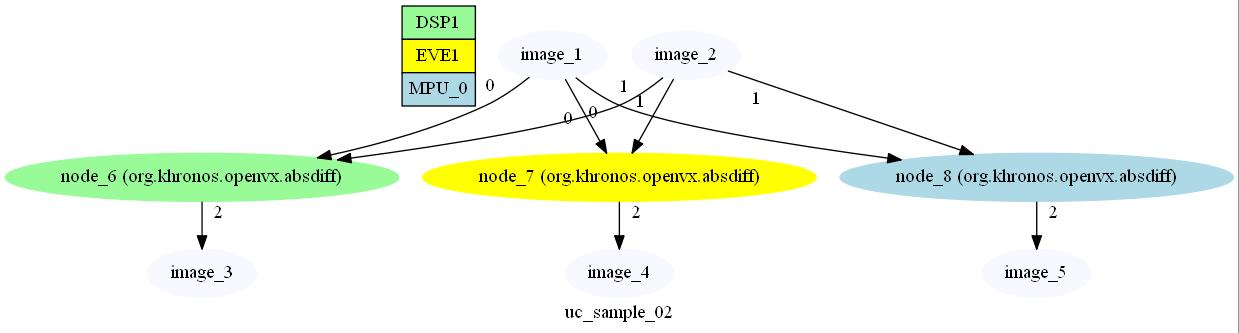
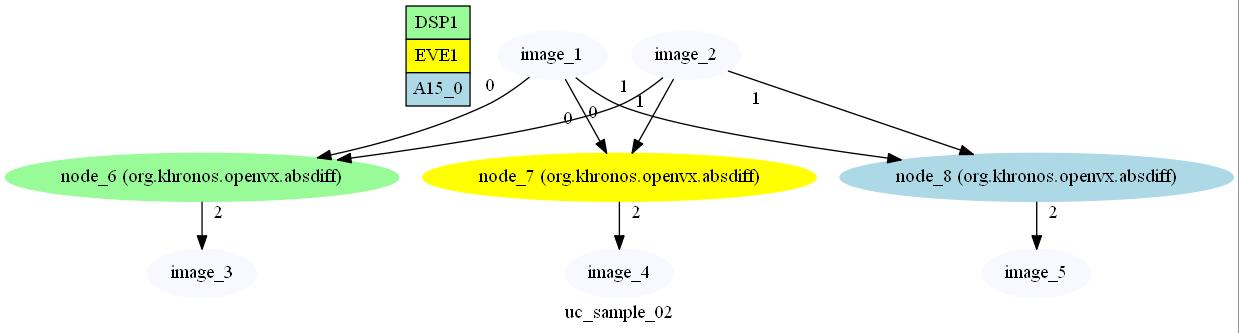
Fixes in PyTIOVX

Changed region(s): [[0.3067, 0.03, 0.3987, 0.3303]]

diff --git a/tools/PyTIOVX/tiovx/enums.py b/tools/PyTIOVX/tiovx/enums.py
@@ -260,12 +260,10 @@ class Cpu(Enum) :
     EVE2    = 5
     EVE3    = 6
     EVE4    = 7
-    MPU_0   = 8
-    MPU_1   = 9
-    IPU1_0  = 10
-    IPU1_1  = 11
-    IPU2_0  = 12
-    IPU2_1  = 13
+    A15_0   = 8
+    IPU1_0  = 9
+    IPU1_1  = 10
+    IPU2    = 11
 
     def get_vx_enum_name(type) :
         return "TIVX_CPU_ID_" + type.name
@@ -298,17 +296,13 @@ class Target(Enum) :
     ## TIOVX equivalent = TIVX_TARGET_EVE4
     EVE4    = 7
     ## TIOVX equivalent = TIVX_TARGET_A15_0
-    MPU_0   = 8
-    ## NOT used
-    MPU_1   = 9
+    A15_0   = 8
     ## TIOVX equivalent = TIVX_TARGET_IPU1_0
-    IPU1_0  = 10
+    IPU1_0  = 9
     ## TIOVX equivalent = TIVX_TARGET_IPU1_1
-    IPU1_1  = 11
+    IPU1_1  = 10
     ## TIOVX equivalent = TIVX_TARGET_IPU2
-    IPU2_0  = 12
-    ## Not used
-    IPU2_1  = 13
+    IPU2    = 11
     ## Used internally by the tool
     DEFAULT = DSP1
 
@@ -328,18 +322,14 @@ class Target(Enum) :
             return Cpu.EVE3
         if target == Target.EVE4 :
             return Cpu.EVE4
-        if target == Target.MPU_0 :
-            return Cpu.MPU_0
-        if target == Target.MPU_1 :
-            return Cpu.MPU_1
+        if target == Target.A15_0 :
+            return Cpu.A15_0
         if target == Target.IPU1_0 :
             return Cpu.IPU1_0
         if target == Target.IPU1_1 :
             return Cpu.IPU1_1
-        if target == Target.IPU2_0 :
-            return Cpu.IPU2_0
-        if target == Target.IPU2_1 :
-            return Cpu.IPU2_1
+        if target == Target.IPU2 :
+            return Cpu.IPU2
 
         return Cpu.INVALID
 

diff --git a/tools/sample_use_cases/uc_sample_05.py b/tools/sample_use_cases/uc_sample_05.py
@@ -39,7 +39,7 @@ gaussian_pyr = Pyramid(5, 1, 640, 480, DfImage.U8)
 node_gaussian_pyramid = NodeGaussianPyramid(img_out_acc_w, gaussian_pyr, target=Target.EVE3);
 
 img_out_phase = Image(640, 480, DfImage.U8)
-node_phase = NodePhase(img_out_acc, img_out_conv, img_out_phase, target=Target.MPU_0)
+node_phase = NodePhase(img_out_acc, img_out_conv, img_out_phase, target=Target.A15_0)
 
 remap = Remap(640, 480, 1280, 720);
 img_out_remap = Image(1280, 720, DfImage.U8);
@@ -57,7 +57,7 @@ nonlinear_matrix = Matrix(Type.UINT8, 3, 3)
 node_nonlinear_filter = NodeNonLinearFilter(NonLinearFilter.MIN, img_out_canny, nonlinear_matrix, img_out_nonlinear_filter, target=Target.EVE4)
 
 img_out_combine = Image(1280, 720, DfImage.U8)
-node_combine = NodeChannelCombine(img_out_phase, img_out_remap, img_out_canny, img_out_nonlinear_filter, img_out_combine, target=Target.MPU_1)
+node_combine = NodeChannelCombine(img_out_phase, img_out_remap, img_out_canny, img_out_nonlinear_filter, img_out_combine, target=Target.A15_0)
 
 dist = Distribution(10, 1, 100)
 node_histogram = NodeHistogram(img_out_combine, dist, target=Target.IPU1_0);
@@ -67,7 +67,7 @@ lut = Lut(Type.UINT8, 255)
 node_lut = NodeTableLookup(img_out_remap, lut, img_out_lut, target=Target.IPU1_1);
 
 img_out_and = Image(1280, 720, DfImage.U8);
-node_and = NodeAnd(img_out_lut, img_out_nonlinear_filter, img_out_and, target=Target.IPU2_0)
+node_and = NodeAnd(img_out_lut, img_out_nonlinear_filter, img_out_and, target=Target.IPU2)
 
 graph.add ( node_acc )
 graph.add ( node_acc_w )

diff --git a/tools/sample_use_cases/uc_sample_05.c b/tools/sample_use_cases/uc_sample_05.c
@@ -875,7 +875,7 @@ vx_status uc_sample_05_graph_0_create(uc_sample_05 usecase)
             usecase->image_19 
           );
         vxSetReferenceName( (vx_reference)usecase->node_20, "node_20");
-        vxSetNodeTarget(usecase->node_20, VX_TARGET_STRING, TIVX_TARGET_MPU_0);
+        vxSetNodeTarget(usecase->node_20, VX_TARGET_STRING, TIVX_TARGET_A15_0);
     }
     if (status == VX_SUCCESS)
     {
@@ -925,7 +925,7 @@ vx_status uc_sample_05_graph_0_create(uc_sample_05 usecase)
             usecase->image_37 
           );
         vxSetReferenceName( (vx_reference)usecase->node_38, "node_38");
-        vxSetNodeTarget(usecase->node_38, VX_TARGET_STRING, TIVX_TARGET_MPU_1);
+        vxSetNodeTarget(usecase->node_38, VX_TARGET_STRING, TIVX_TARGET_A15_0);
     }
     if (status == VX_SUCCESS)
     {
@@ -957,7 +957,7 @@ vx_status uc_sample_05_graph_0_create(uc_sample_05 usecase)
             usecase->image_44 
           );
         vxSetReferenceName( (vx_reference)usecase->node_45, "node_45");
-        vxSetNodeTarget(usecase->node_45, VX_TARGET_STRING, TIVX_TARGET_IPU2_0);
+        vxSetNodeTarget(usecase->node_45, VX_TARGET_STRING, TIVX_TARGET_IPU2);
     }
     
     usecase->graph_0 = graph;

diff --git a/tools/PyTIOVX/tiovx/export_image.py b/tools/PyTIOVX/tiovx/export_image.py
@@ -30,17 +30,13 @@ class ExportImage (Export) :
             return "orange"
         if target == Target.EVE4 :
             return "goldenrod4"
-        if target == Target.MPU_0 :
-            return "lightblue"
-        if target == Target.MPU_1 :
+        if target == Target.A15_0 :
             return "lightblue"
         if target == Target.IPU1_0 :
             return "grey"
         if target == Target.IPU1_1 :
             return "LightSalmon"
-        if target == Target.IPU2_0 :
-            return "MediumOrchid"
-        if target == Target.IPU2_1 :
+        if target == Target.IPU2 :
             return "MediumOrchid"
         return "white"
 

diff --git a/tools/sample_use_cases/uc_sample_02.py b/tools/sample_use_cases/uc_sample_02.py
@@ -16,7 +16,7 @@ out3 = Image(640, 480, DfImage.U8)
 
 graph.add ( NodeAbsDiff(in1, in2, out1, target=Target.DSP1) )
 graph.add ( NodeAbsDiff(in1, in2, out2, target=Target.EVE1) )
-graph.add ( NodeAbsDiff(in1, in2, out3, target=Target.MPU_0) )
+graph.add ( NodeAbsDiff(in1, in2, out3, target=Target.A15_0) )
 
 context.add ( graph )
 
